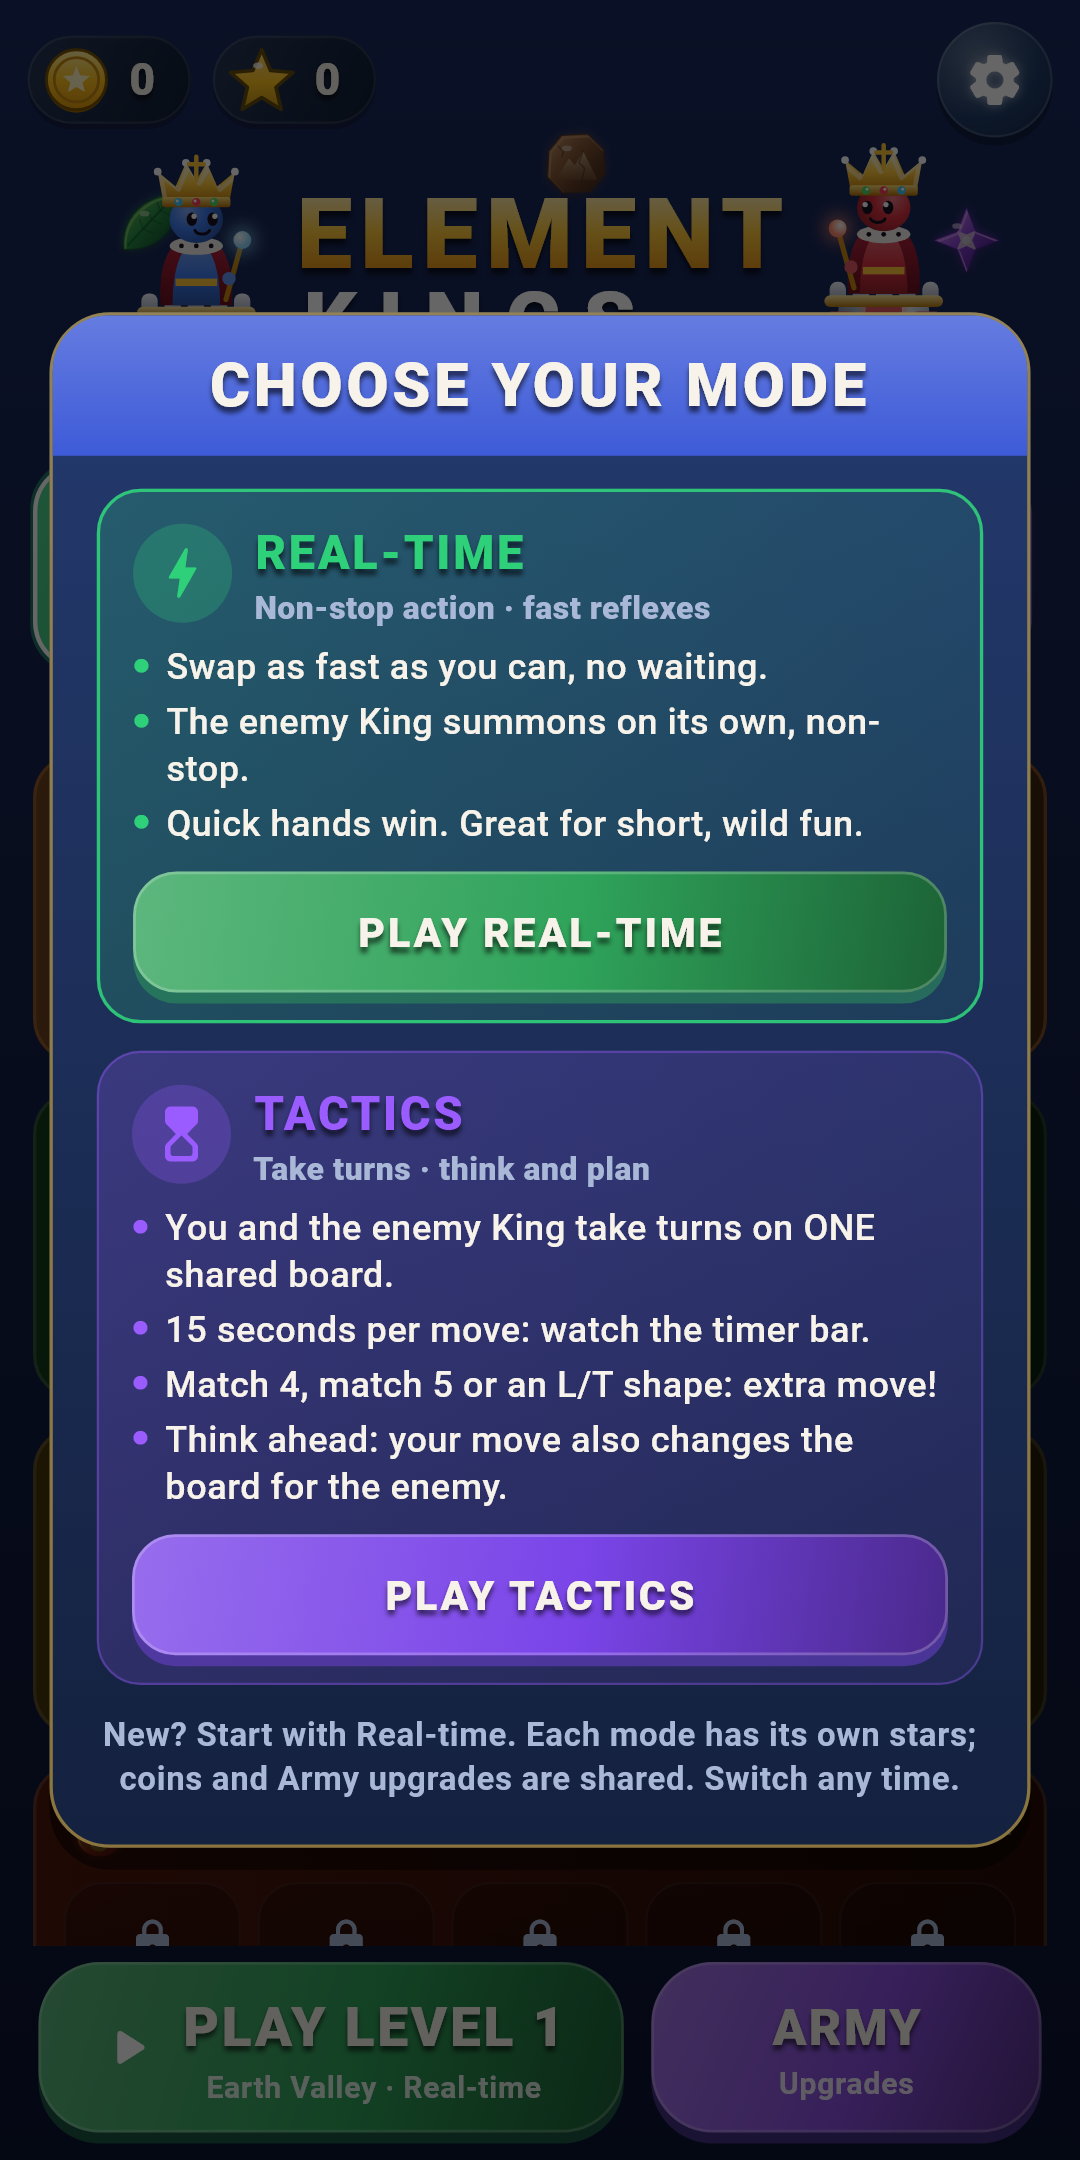
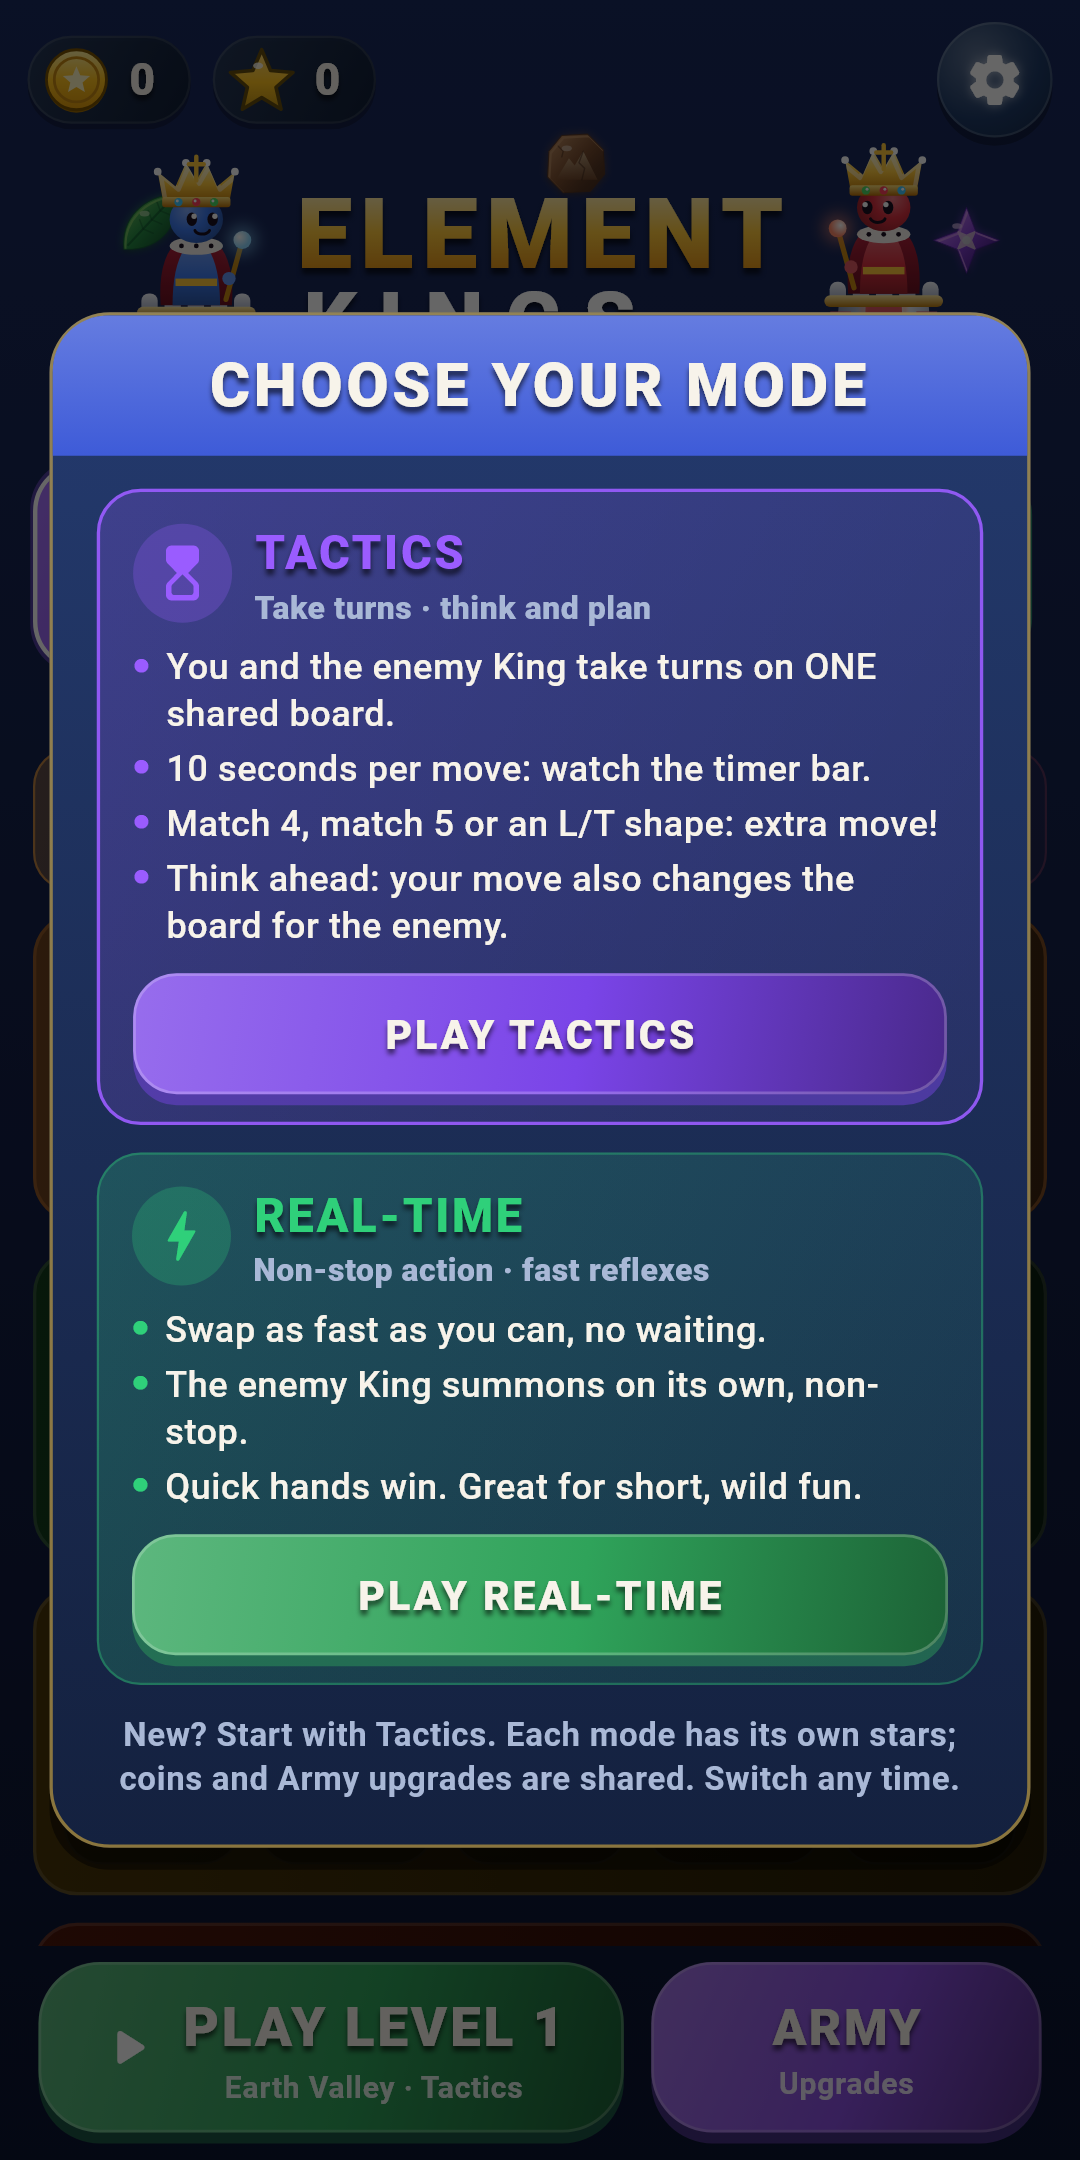
Element Kings 1.3: guard towers, Arena, daily quests, Tactics first

diff --git a/elementkings/index.html b/elementkings/index.html
@@ -53,7 +53,11 @@
     <div class="card"><div class="emoji">👑</div><h3>Real-time battles</h3>
       <p>The enemy King plays its own board at the same time. Both Kings shoot weakly, but matches fill Royal Energy for Arrow Rain, Royal Shield and Rally.</p></div>
     <div class="card"><div class="emoji">⏳</div><h3>Tactics mode</h3>
-      <p>Prefer to think? Take turns with the enemy King on one shared board while both armies keep fighting. Match 4, match 5 or an L/T shape to earn an extra move. Its own 30-battle campaign.</p></div>
+      <p>Prefer to think? Take turns with the enemy King on one shared board, 10 seconds per move, while both armies keep fighting. Match 4, match 5 or an L/T shape to earn an extra move. Its own 30-battle campaign.</p></div>
+    <div class="card"><div class="emoji">🏰</div><h3>Guard towers</h3>
+      <p>Each King starts behind a weak Pawn tower and one random Knight, Rook, Bishop or Queen tower. Break through them first!</p></div>
+    <div class="card"><div class="emoji">🏆</div><h3>Endless Arena and daily quests</h3>
+      <p>Arena rounds get harder and harder while your King's health carries over. Three new quests every day for bonus coins.</p></div>
     <div class="card"><div class="emoji">🗺</div><h3>30 battles, 6 realms</h3>
       <p>From Earth Valley to the Magic Castle. Each realm favours its element, so pick the right counters.</p></div>
     <div class="card"><div class="emoji">⬆</div><h3>Upgrade and play offline</h3>
@@ -71,6 +75,8 @@
       <img src="img/screen-08.png" alt="Choosing Tactics mode on the realm map" loading="lazy">
       <img src="img/screen-09.png" alt="A turn-based Tactics battle with the turn timer" loading="lazy">
     <img src="img/screen-10.png" alt="Choosing between Real-time and Tactics" loading="lazy">
+    <img src="img/screen-11.png" alt="Daily quests" loading="lazy">
+    <img src="img/screen-12.png" alt="An endless Arena round" loading="lazy">
   </div>
 </main>
 <footer>
